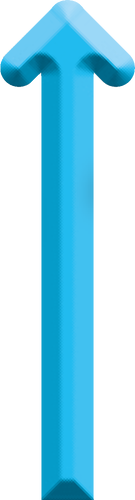
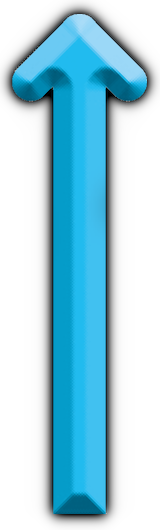
fix: remove filter drop shadow that causes poor performance and use drop shadow directly on image

Changed region(s): [[0.0, 0.0, 1.0, 1.0]]

diff --git a/app/src/material/ArrowsDescription.tsx b/app/src/material/ArrowsDescription.tsx
@@ -15,7 +15,7 @@ export const ArrowsDescription: TokenMaterialDescription<ArrowColor> = {
       [ArrowColor.Yellow]: yellow
     },
     height: 4.5,
-    ratio: 135 / 500
+    ratio: 160 / 530
   },
   rules: ArrowRules
 }
